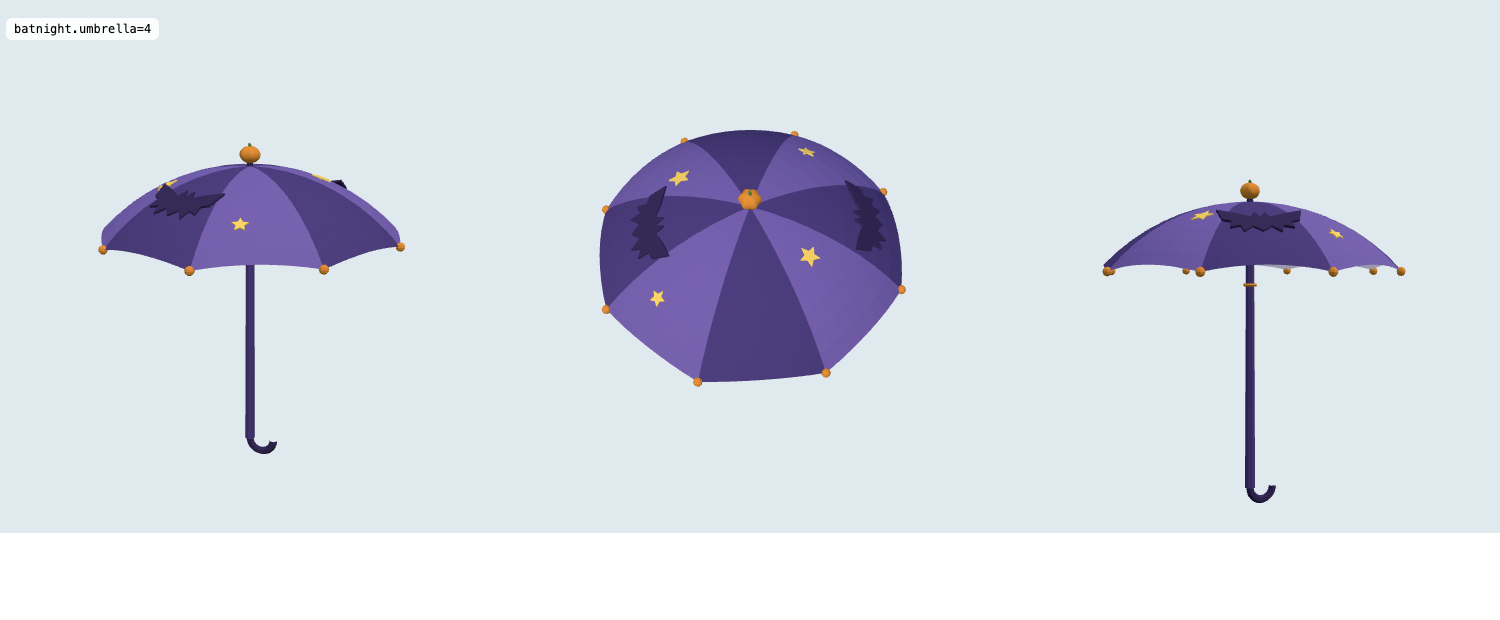
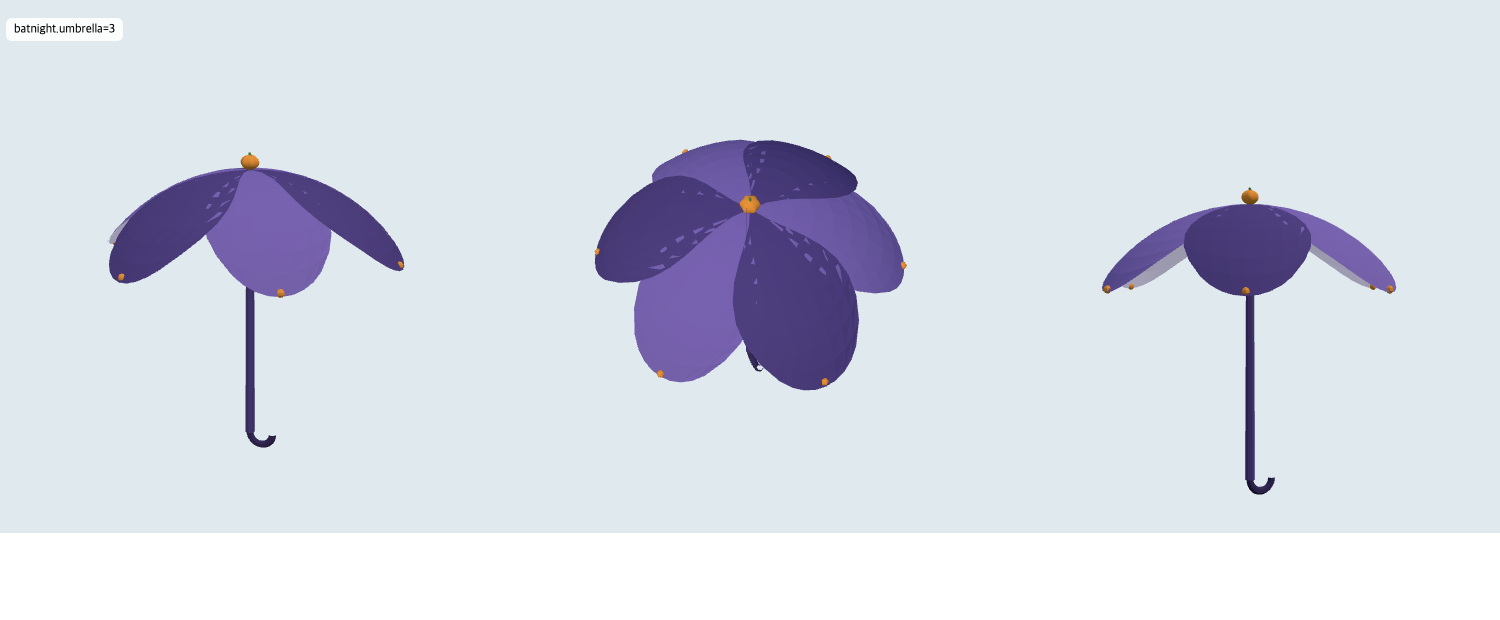
fix: 🎃 port batnight/harvest umbrellas from the confirmed sim and tighten theme tests
Umbrella params and decorations now follow UMB.bat / UMB.harvest in sims/halloween-tools-sim.html (canopy decals and onCanopy removed). Tests check all 9 tools per theme block and both UMBRELLAS entries.

diff --git a/js/cosmetics/tool-skins.js b/js/cosmetics/tool-skins.js
@@ -1,6 +1,6 @@
 // js/cosmetics/tool-skins.js
 // =============================================================
-//  calm forest · 🪓☂ 프리미엄 도구 테마 세트 조형 — 도구 9종 × 3테마 + 비 오는 날 우산
+//  calm forest · 🪓☂ 프리미엄 도구 테마 세트 조형 — 도구 9종 × 5테마(🎃 할로윈 2종 포함) + 비 오는 날 우산
 //  ------------------------------------------------------------
 //  ▶ 시안·확정: sims/premium-tool-umbrella-sim.html (2026-10-02). 조형 수치는 시안에서 그대로 옮겼다.
 //    시안을 고치면 여기도 같이 고친다(tool-tier-sim 에서 0단계 값이 갈려 역이식된 사고가 있었다).
@@ -497,9 +497,10 @@ const UMBRELLAS = {
   moon:   { N: 8, R: 1.15, th: 0.76, overlap: 1, shape: { w: () => 1, tip: -0.07 }, twist: Math.PI / 8 },
   bloom:  { N: 6, R: 1.0,  th: 0.98, overlap: 1.32, layer: true,
             shape: { w: v => 0.42 + 0.58 * Math.sin(Math.PI * Math.min(1, 0.12 + v * 0.88)), tip: 0.10 } },
-  // 🎃 할로윈 — 시안 없이 테마 팔레트로 설계(2026-10-06). 달밤 보라: 살 끝이 뾰족한 박쥐 날개 톱니 · 수확제: 겹친 짚 갓
-  batnight: { N: 8, R: 1.08, th: 0.86, overlap: 1, shape: { w: () => 1, tip: -0.05 }, twist: Math.PI / 8 },
-  harvest:  { N: 6, R: 1.0,  th: 1.0,  overlap: 1.2, layer: true, shape: { w: () => 1, tip: 0.04 } },
+  // 🎃 할로윈 — 시안 sims/halloween-tools-sim.html UMB.bat / UMB.harvest 그대로(2026-10-06 확정, look/umbrella-pc.png)
+  batnight: { N: 6, R: 1.0,  th: 0.92, overlap: 1.28, layer: true,   // 보라 6폭 · 끝이 박쥐 날개처럼 뾰족
+              shape: { w: v => 0.42 + 0.58 * Math.sin(Math.PI * Math.min(1, 0.12 + v * 0.88)), tip: 0.12 } },
+  harvest:  { N: 10, R: 1.35, th: 0.62, overlap: 1, shape: { w: () => 1, tip: 0 } },   // 짚 갓우산
 };
 export const UMBRELLA_SHAFT = 1.55;   // 쥐는 곳 → 꼭지
 
@@ -525,15 +526,6 @@ export function buildUmbrella(THREE, theme) {
   const surf = (R, th, phi) => {
     const p = V(-Math.cos(phi) * Math.sin(th) * R, (Math.cos(th) - 1) * R, Math.sin(phi) * Math.sin(th) * R);
     return { p, n: p.clone().add(V(0, R, 0)).normalize() };
-  };
-  // 갓 표면에 붙이는 판 — 로컬 +z = 바깥 법선, +y = 꼭지 쪽(납작한 무늬가 살을 따라 바로 선다)
-  const _basis = new THREE.Matrix4();
-  const onCanopy = (h, R, th, phi) => {
-    const w = new THREE.Group(); w.rotation.y = phi; h.add(w);
-    const p = new THREE.Group(); p.position.set(-Math.sin(th) * R, (Math.cos(th) - 1) * R, 0);
-    _basis.makeBasis(V(0, 0, 1), V(Math.cos(th), Math.sin(th), 0), V(-Math.sin(th), Math.cos(th), 0));
-    p.quaternion.setFromRotationMatrix(_basis); w.add(p);
-    return p;
   };
   const HK = halloweenKit(THREE, K);
   const L = UMBRELLA_SHAFT, root = new THREE.Group();
@@ -586,32 +578,20 @@ export function buildUmbrella(THREE, theme) {
         for (let i = 0; i < 5; i++) { const a = i * Math.PI * 2 / 5; c.add(M(new THREE.SphereGeometry(0.016, 6, 5), clay(0xe0a83a), Math.cos(a) * 0.05, 0.07, Math.sin(a) * 0.05)); }
       },
     },
-    // 🦇 달밤 보라 — 보라·자두 번갈이 8폭, 살 끝이 뾰족(박쥐 날개 톱니) + 끝마다 주황 구슬, 별 점·박쥐 그림자, 꼭지는 꼬마 호박
+    // 🦇 달밤 보라 — 보라·자두 번갈이 6폭, 폭 끝이 박쥐 날개처럼 뾰족 + 끝마다 주황 구슬, 꼭지는 꼬마 호박
     batnight: {
       outer: k => clay(k % 2 ? BT.plum : BT.vio), inner: () => clay(0xd9cff4, { side: THREE.BackSide, lift: 0.3 }),
       shaft() {
         root.add(M(new THREE.CylinderGeometry(0.022, 0.028, L, 7), clay(BT.plum), 0, L / 2, 0));
-        const band = M(new THREE.TorusGeometry(0.03, 0.009, 5, 12), clay(BT.orange), 0, L - 0.45, 0); band.rotation.x = Math.PI / 2; root.add(band);
         jHook(clay(BT.night), 0.07);
       },
-      deco(h, k) {
-        const tipP = surf(def.R, def.th, Math.PI / def.N).p;   // 살(뼈) 끝 = 날개 손가락 끝
-        h.add(M(new THREE.SphereGeometry(0.024, 8, 6), clay(BT.orange), tipP.x, tipP.y, tipP.z));
-        if (k === 1 || k === 5) {   // 박쥐는 두 폭에만 — 마주 보는 쪽
-          const bat = M(ext(HK.batSilShape(2.3), 0.008, 0.003, 4), clay(BT.night));
-          onCanopy(h, def.R * 1.006, k === 1 ? 0.52 : 0.62, 0).add(bat);
-        } else if (k % 2 === 0) {   // 별은 박쥐 없는 폭 하나 걸러 — 크기 다르게
-          const j = k / 2, r = [0.06, 0.042, 0.054, 0.046][j];
-          const s = M(ext(starShape(r), 0.006, 0.002), clay(BT.gold, { glow: BT.gold, k: 0.9 }));
-          onCanopy(h, def.R * 1.006, [0.42, 0.6, 0.36, 0.55][j], [0.1, -0.12, 0.0, 0.14][j]).add(s);
-        }
+      deco(h) {
+        const tipP = surf(def.R, def.th * 1.1, 0).p;   // 폭 가운데 뾰족한 끝
+        h.add(M(new THREE.SphereGeometry(0.022, 6, 5), clay(BT.orange), tipP.x, tipP.y, tipP.z));
       },
-      finial(c) {
-        c.add(M(new THREE.CylinderGeometry(0.012, 0.02, 0.04, 6), clay(BT.night), 0, 0.015, 0));
-        HK.pumpkin(c, 0.055, 0, 0.06, 0);
-      },
+      finial(c) { HK.pumpkin(c, 0.05, 0, 0.04, 0); },
     },
-    // 🌽 수확제 — 짚·짙은 짚 번갈이 6폭 겹친 갓, 기움천 세 장 · 새끼줄 띠, 자루에 새끼줄, 꼭지는 옥수수
+    // 🌽 수확제 — 짚 갓우산 10폭 · 한 폭 걸러 빨간 끈 · 자루에 새끼줄 · 꼭지는 옥수수
     harvest: {
       outer: k => clay(k % 2 ? HV.strawD : HV.straw), inner: () => clay(HV.cream, { side: THREE.BackSide, lift: 0.35 }),
       shaft() {
@@ -620,15 +600,11 @@ export function buildUmbrella(THREE, theme) {
         jHook(clay(HV.woodD));
       },
       deco(h, k) {
-        if (k % 2) return;   // 겹친 폭(바깥으로 살짝 뜬 쪽)은 비워 둔다 — 깜빡임·관통 방지
-        const j = k / 2;
-        HK.patch(onCanopy(h, def.R * 1.004, [0.62, 0.48, 0.7][j], [0.06, -0.08, 0.0][j]), 0, 0, 0, [0.2, 0.16, 0.18][j], j === 1 ? HV.blue : HV.red, 1, [0.12, -0.2, 0.3][j]);
+        if (k % 2) return;
+        const p = surf(def.R * 1.003, 0.31, 0).p;
+        h.add(M(new THREE.BoxGeometry(0.03, 0.03, 0.2), clay(HV.red), p.x, p.y, p.z));
       },
-      finial(c) {
-        const rope = M(new THREE.TorusGeometry(def.R * 1.016 * Math.sin(0.3), 0.014, 4, 30), clay(HV.rope), 0, (Math.cos(0.3) - 1) * def.R * 1.016, 0);
-        rope.rotation.x = Math.PI / 2; c.add(rope);   // 새끼줄 띠 — 꼭지 둘레
-        HK.cob(c, 0, 0.09, 0, 0.16, 0.04, 0.028, 3);
-      },
+      finial(c) { HK.cob(c, 0, 0.1, 0, 0.16, 0.04, 0.028, 3); },
     },
   }[theme];
   look.shaft();
